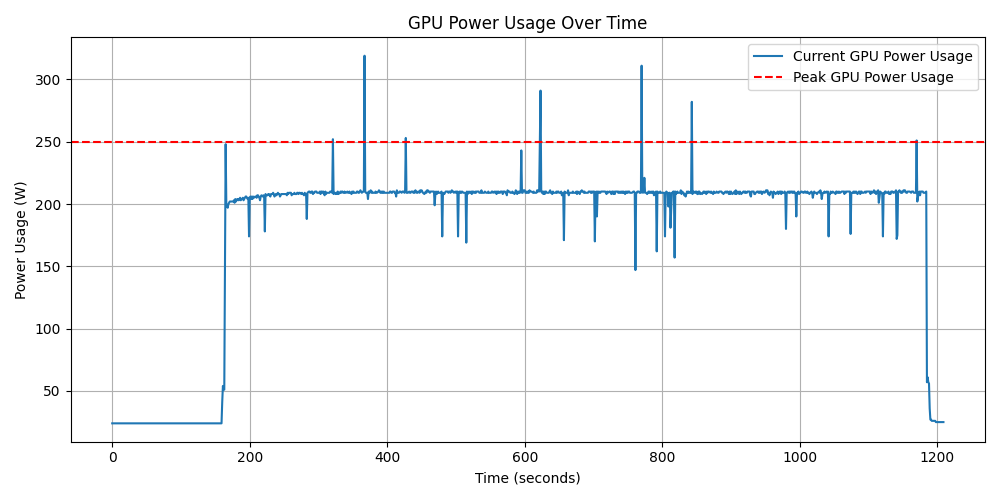
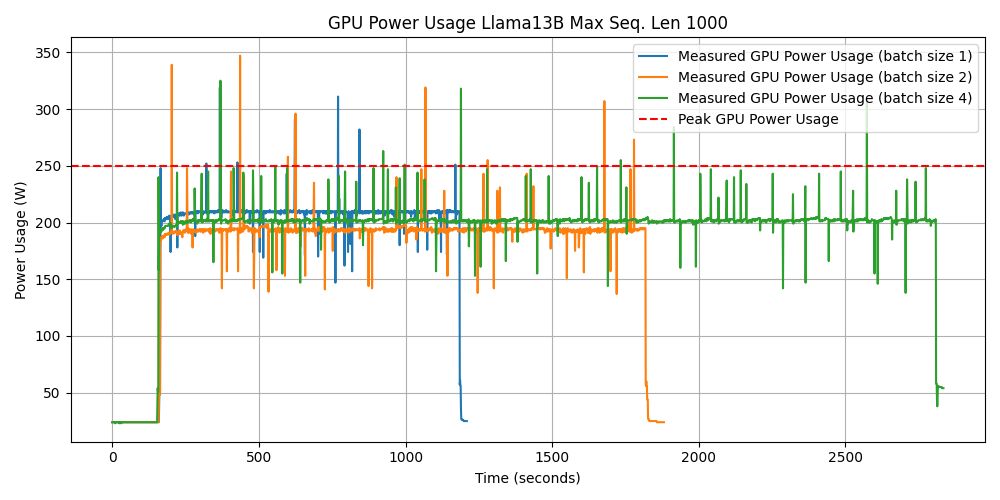
e

diff --git a/nvidia-gpu/tensorrt-llm/plotting/gpu_batch_exp_plotting.py b/nvidia-gpu/tensorrt-llm/plotting/gpu_batch_exp_plotting.py
@@ -116,75 +116,116 @@ def parse_nvsmi_output(nvsmi_output_path):
 
 def plot_power_over_time(
     bmark_entries,
-    plot_filename
+    plot_filename,
+    plot_sequence_length
 ):
+    plt.figure(figsize=(10, 5))
+    min_bmark_nvsmi_time_start_diff = float('inf')
+    timestamps_list = []
+    curr_powers_list = []
+    max_powers_list = []
+    bmark_tuples_list = []
+
     for bmark_entry in bmark_entries:
         model_size_GB = bmark_entry['model_size_GB']
         batch_size = bmark_entry['batch_size']
         max_sequence_length = bmark_entry['max_sequence_length']
+        if max_sequence_length != plot_sequence_length:
+            continue
         print(f'bmark_entry: {model_size_GB} {batch_size} {max_sequence_length}')
 
-    testing = bmark_entries[0]
-    for key, value in testing.items():
-        print(f'testing: {key}')
+        # Extract timestamps from bmark_info
+        bmark_info = bmark_entry['bmark_info']
+        # each entry is (batch_start_time, batch_end_time)
+        bmark_tuples = []
+        curr_max_time = 0.0
+        for batch_iteration, batch_dict in bmark_info.items():
+            batch_start_time = batch_dict['batch_start_time']
+            batch_end_time = batch_dict['batch_end_time']
 
-    bmark_info = testing['bmark_info']
-    # Extract timestamps from bmark_info
-    curr_max_time = 0.0
-    # each entry is (batch_start_time, batch_end_time)
-    bmark_tuples = []
-    for batch_iteration, batch_dict in bmark_info.items():
-        #print(f'{batch_iteration}: {batch_dict}')
-        batch_start_time = batch_dict['batch_start_time']
-        batch_end_time = batch_dict['batch_end_time']
+            # make sure timestamps are strictly increasing
+            assert(batch_start_time > curr_max_time and
+                   batch_end_time > batch_start_time)
+            curr_max_time = batch_end_time
+            bmark_tuples.append((batch_start_time, batch_end_time))
 
-        # make sure timestamps are strictly increasing
-        assert(batch_start_time > curr_max_time and
-               batch_end_time > batch_start_time)
-        curr_max_time = batch_end_time
-        bmark_tuples.append((batch_start_time, batch_end_time))
+        # Extract timestamps and power usage from nvsmi_info
+        nvsmi_info = bmark_entry['nvsmi_info']
+        # each entry is (timestamp_raw, curr_power_usage, max_power_usage)
+        timestamps = []
+        curr_powers = []
+        max_powers = []
+        for nvsmi_dict in nvsmi_info:
+            timestamp_raw = nvsmi_dict['timestamp_raw']
+            curr_power_usage = nvsmi_dict['curr_power_usage']
+            max_power_usage = nvsmi_dict['max_power_usage']
 
-    nvsmi_info = testing['nvsmi_info']
-    # Extract timestamps and power usage from nvsmi_info
-    #print(nvsmi_info[0])
-    # each entry is (timestamp_raw, curr_power_usage, max_power_usage)
-    #nvsmi_tuples = []
-    timestamps = []
-    curr_powers = []
-    max_powers = []
-    for nvsmi_dict in nvsmi_info:
-        timestamp_raw = nvsmi_dict['timestamp_raw']
-        curr_power_usage = nvsmi_dict['curr_power_usage']
-        max_power_usage = nvsmi_dict['max_power_usage']
+            timestamps.append(nvsmi_dict['timestamp_raw'])
+            curr_powers.append(nvsmi_dict['curr_power_usage'])
+            max_powers.append(nvsmi_dict['max_power_usage'])
 
-        timestamps.append(nvsmi_dict['timestamp_raw'])
-        curr_powers.append(nvsmi_dict['curr_power_usage'])
-        max_powers.append(nvsmi_dict['max_power_usage'])
+        # Make the timestamps start at the same place
+        bmark_nvsmi_time_start_diff = bmark_tuples[0][0] - timestamps[0]
+        print(f'bmark_nvsmi_time_start_diff: {bmark_nvsmi_time_start_diff}')
+        if bmark_nvsmi_time_start_diff < min_bmark_nvsmi_time_start_diff:
+            min_bmark_nvsmi_time_start_diff = bmark_nvsmi_time_start_diff
 
-    # make the timestamps start at 0
-    timestamps_norm = [timestamp - timestamps[0] for timestamp in timestamps]
+        timestamps_list.append(timestamps)#_norm)
+        curr_powers_list.append(curr_powers)
+        max_powers_list.append(max_powers)
+        bmark_tuples_list.append(bmark_tuples)
 
-    plt.figure(figsize=(10, 5))
-    plt.plot(timestamps_norm, curr_powers, label='Current GPU Power Usage')
+    # making all the plots start execution at the same time point
+    print(len(timestamps_list))
+    print(len(curr_powers_list))
+    print(len(max_powers_list))
+    print(len(bmark_tuples_list))
+    print(len(bmark_entries))
+    assert(len(timestamps_list) == len(curr_powers_list) and
+           len(curr_powers_list) == len(max_powers_list) and
+           len(max_powers_list) == len(bmark_tuples_list) and
+           len(bmark_tuples_list) == len(bmark_entries))
+
+    for i in range(len(timestamps_list)):
+        bmark_entry = bmark_entries[i]
+        batch_size = bmark_entry['batch_size']
+
+        timestamps = timestamps_list[i]
+        curr_powers = curr_powers_list[i]
+        max_powers = max_powers_list[i]
+        bmark_tuples = bmark_tuples_list[i]
+
+        bmark_nvsmi_time_start_diff = bmark_tuples[0][0] - timestamps[0]
+        diff_from_min = bmark_nvsmi_time_start_diff - min_bmark_nvsmi_time_start_diff
+
+        timestamps_norm = [timestamp - timestamps[0] for timestamp in timestamps]
+        timestamps_adjusted = [timestamp - diff_from_min for timestamp in timestamps_norm]
+
+        assert(len(timestamps_adjusted) == len(curr_powers) and
+               len(curr_powers) == len(max_powers))
+        plot_timestamps = []
+        plot_curr_powers = []
+
+        for i in range(timestamps_adjusted):
+            if timestamps_adjusted[i] >= 0:
+                plot_timestamps.append(timestamps_adjusted[i])
+                plot_curr_powers.append(curr_powers[i])
+        plt.plot(plot_timestamps, plot_curr_powers, label=f'Measured GPU Power Usage (batch size {batch_size})')
+
+    #timestamps_norm_list = []
+
+        # make the timestamps start at 0
+        #timestamps_norm = [timestamp - timestamps[0] for timestamp in timestamps]
+        #plt.plot(timestamps_norm, curr_powers, label=f'Measured GPU Power Usage (batch size {batch_size})')
+
     plt.axhline(y=max_powers[0], color='r', linestyle='--', label='Peak GPU Power Usage')
     plt.xlabel('Time (seconds)')
     plt.ylabel('Power Usage (W)')
-    plt.title('GPU Power Usage Over Time')
+    plt.title(f'GPU Power Usage Llama{model_size_GB}B Max Seq. Len {plot_sequence_length}')
     plt.legend()
     plt.grid(True)
     plt.tight_layout()
     plt.savefig(plot_filename)
-
-
-        #print(f'nvsmi_tuple: {timestamp_raw} {curr_power_usage} {max_power_usage}')
-        #nvsmi_tuples.append((timestamp_raw, curr_power_usage, max_power_usage))
-
-        #print(batch_start_time)
-        #print(batch_end_time)
-
-        #bmark_info = testing['bmark_info']
-        #for key, value in bmark_info.items():
-        #    print(f'bmark_info: {key}')
 
 
 def main(args):
@@ -215,9 +256,11 @@ def main(args):
     print(f'main num_bmark_entries: {num_bmark_entries}')
 
     if args.plot_power_over_time: # TODO: Only one plot can be generated at a time
-        plot_power_over_time(bmark_entries, args.plot_filename)
-
-    #print(bmark_entries[0])
+        plot_power_over_time(
+            bmark_entries,
+            args.plot_filename,
+            args.plot_sequence_length
+        )
 
 
 if __name__ == '__main__':
@@ -254,6 +297,11 @@ if __name__ == '__main__':
         type=str,
         required=True,
         help='filename for specified plot'
+    )
+    parser.add_argument(
+        '--plot_sequence_length',
+        type=int,
+        help='specify which sequence length to generate plot for'
     )
     args = parser.parse_args()
     main(args)
